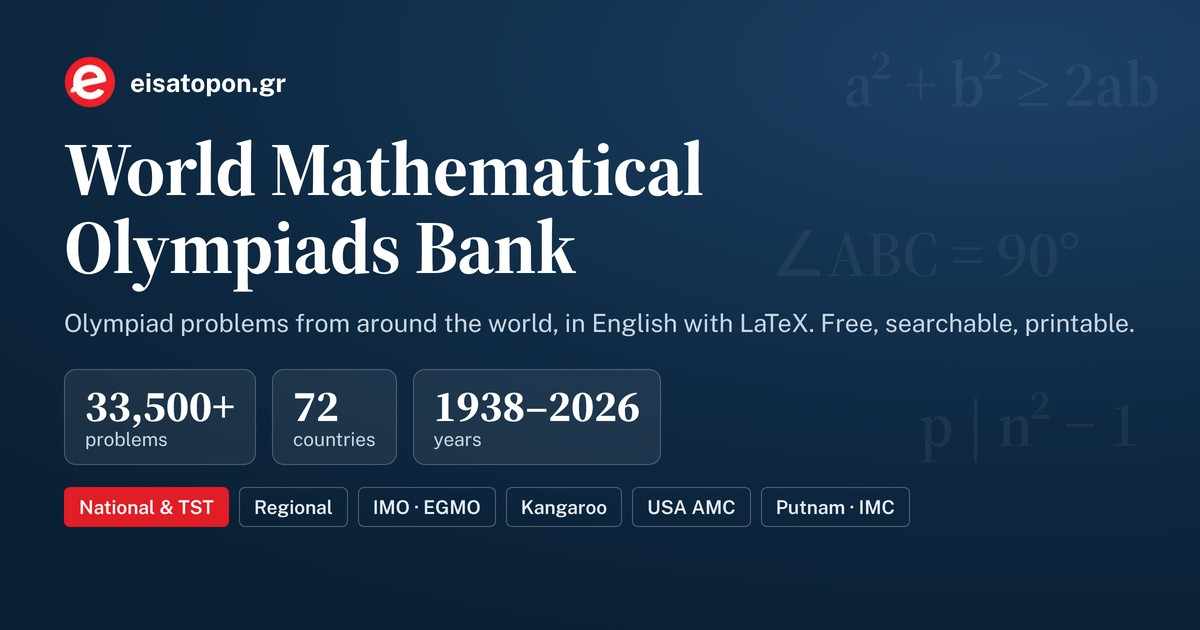
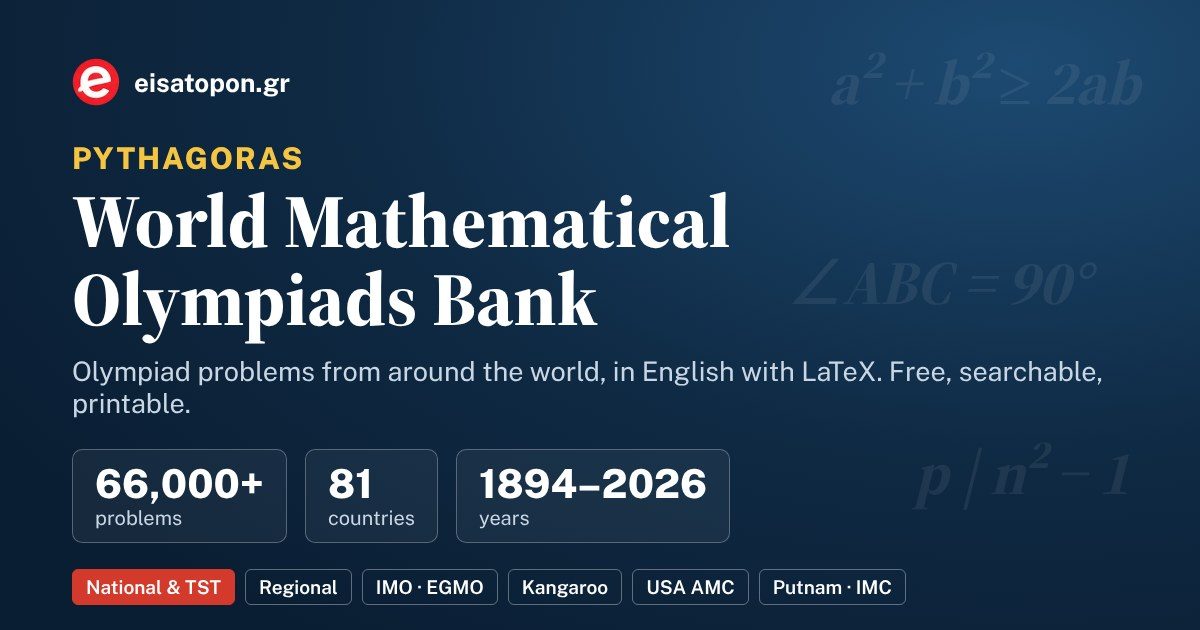
Update site (8108657b)

diff --git a/index.html b/index.html
@@ -13,16 +13,16 @@
 <meta property="og:type" content="website">
 <meta property="og:site_name" content="eisatopon.gr">
 <meta property="og:title" content="Pythagoras – World Mathematical Olympiads Bank">
-<meta property="og:description" content="60,000+ mathematical olympiad problems from 81 countries (1894–2026): national olympiads and TSTs, Balkan MO, IMO, EGMO, Kangaroo, USA AMC, Putnam and IMC. In English with LaTeX. Free, searchable, printable.">
+<meta property="og:description" content="66,000+ mathematical olympiad problems from 81 countries (1894–2026): national olympiads and TSTs, Balkan MO, IMO, EGMO, Kangaroo, USA AMC, Putnam and IMC. In English with LaTeX. Free, searchable, printable.">
 <meta property="og:url" content="https://eisatopon.github.io/national-olympiads-bank/">
-<meta property="og:image" content="https://eisatopon.github.io/national-olympiads-bank/assets/share-card.jpg">
+<meta property="og:image" content="https://eisatopon.github.io/national-olympiads-bank/assets/share-card-2.jpg">
 <meta property="og:image:width" content="1200">
 <meta property="og:image:height" content="630">
-<meta property="og:image:alt" content="Pythagoras – World Mathematical Olympiads Bank: 60,000+ problems, 81 countries, 1894–2026">
+<meta property="og:image:alt" content="Pythagoras – World Mathematical Olympiads Bank: 66,000+ problems, 81 countries, 1894–2026">
 <meta name="twitter:card" content="summary_large_image">
 <meta name="twitter:title" content="Pythagoras – World Mathematical Olympiads Bank">
-<meta name="twitter:description" content="60,000+ olympiad problems from 81 countries, 1894–2026. In English with LaTeX. Free, searchable, printable.">
-<meta name="twitter:image" content="https://eisatopon.github.io/national-olympiads-bank/assets/share-card.jpg">
+<meta name="twitter:description" content="66,000+ olympiad problems from 81 countries, 1894–2026. In English with LaTeX. Free, searchable, printable.">
+<meta name="twitter:image" content="https://eisatopon.github.io/national-olympiads-bank/assets/share-card-2.jpg">
 
 <link rel="preconnect" href="https://fonts.googleapis.com">
 <link rel="preconnect" href="https://fonts.gstatic.com" crossorigin>
@@ -1168,7 +1168,7 @@ dialog p { color: var(--muted); font-size: .92rem; }
    ========================================================== */
 const BASE = 'https://raw.githubusercontent.com/Eisatopon/national-olympiads-bank/main/';
 // Bump on every data change so browsers never mix old and new files.
-const DATA_VERSION = '20261028-share-problem';
+const DATA_VERSION = '20261028-share-card';
 const FIRST = 1894, LAST = 2026;
 const REGIONS = [['europe', 'Europe'], ['asia', 'Asia'], ['americas', 'Americas'], ['africa', 'Africa'], ['oceania', 'Oceania'], ['world', 'World'], ['other', 'Other']];
 const REGION_OF = {
